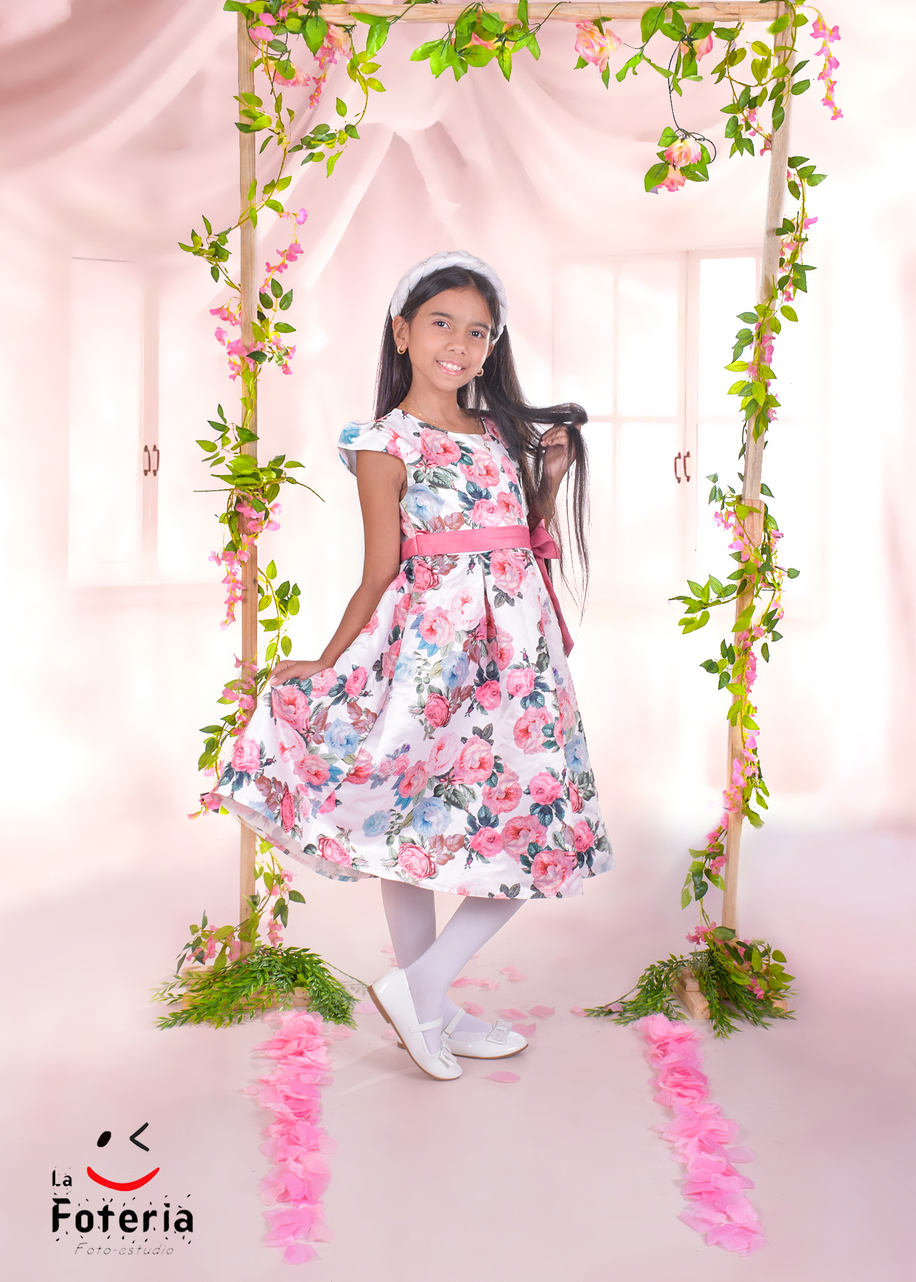
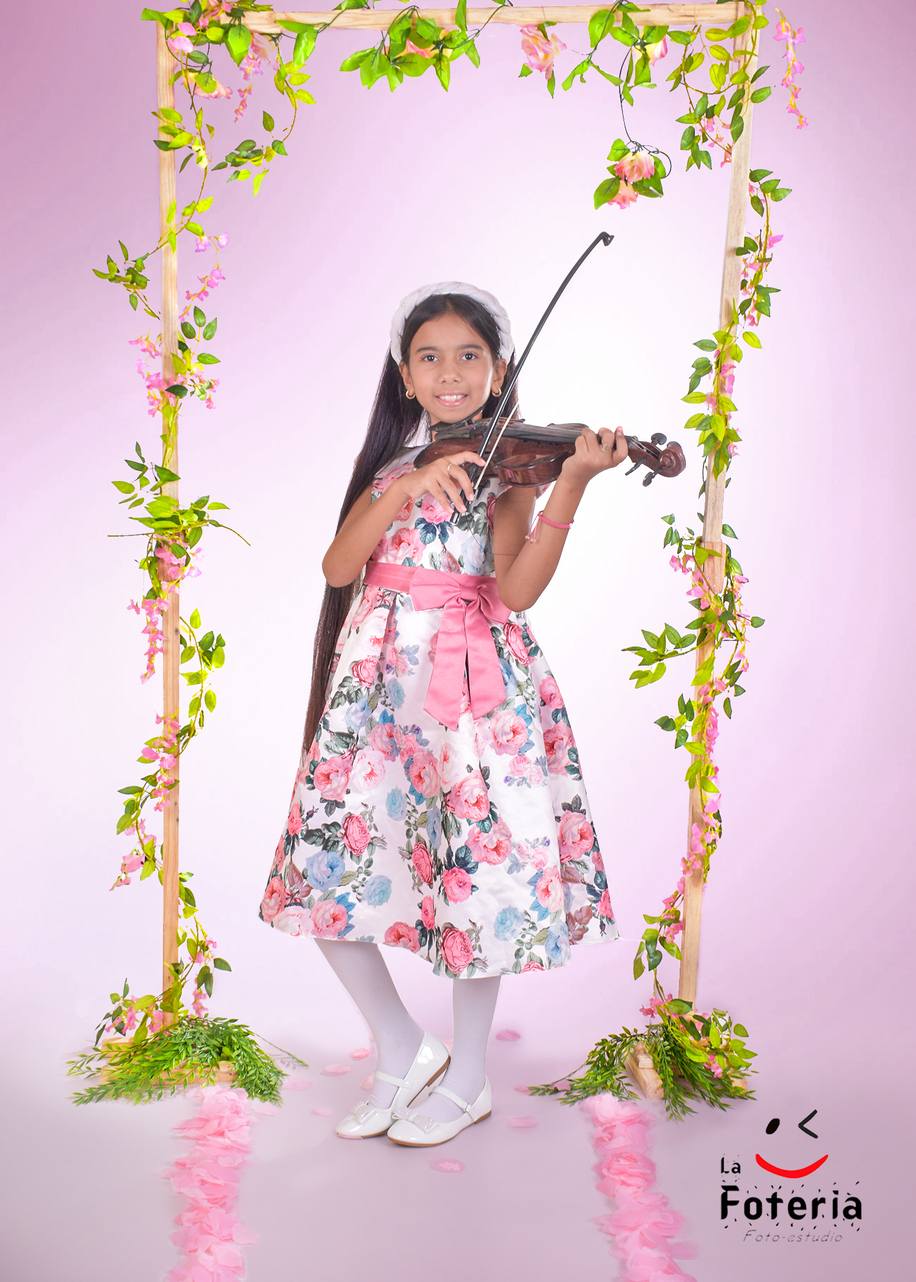
finalizando fotos

diff --git a/src/content/docs/catalogo/profesiones.md b/src/content/docs/catalogo/profesiones.md
@@ -1,0 +1,30 @@
+---
+title: 'Mi futura profesión'
+pubDate: 2024-Febrero
+description: 'Adolescentes'
+author: 'La Foteria'
+image:
+    url: 'https://docs.astro.build/assets/full-logo-light.png'
+    alt: 'El logotipo completo de Astro.'
+tags: ["astro", "bloguear", "aprender en público"]
+---
+
+
+
+#### ¿A que se dedicarán estos niños cuando crezcan? Descúbrelo en sus fotografías
+
+![profesiones][path]
+![profesiones][path2]
+![profesiones][path3]
+![profesiones][path4]
+![profesiones][path5]
+![profesiones][path6]
+![profesiones][path7]
+
+[path]: ../../../assets/profesiones/01.jpg
+[path2]: ../../../assets/profesiones/02.JPG
+[path3]: ../../../assets/profesiones/03.JPG
+[path4]: ../../../assets/profesiones/04.JPG
+[path5]: ../../../assets/profesiones/05.JPG
+[path6]: ../../../assets/profesiones/06.JPG
+[path7]: ../../../assets/profesiones/07.JPG

diff --git a/src/content/docs/catalogo/mascotas.md b/src/content/docs/catalogo/mascotas.md
@@ -1,0 +1,28 @@
+---
+title: 'Mis mascotas'
+pubDate: 2024-Febrero
+description: 'Mascotas'
+author: 'La Foteria'
+image:
+    url: 'https://docs.astro.build/assets/full-logo-light.png'
+    alt: 'El logotipo completo de Astro.'
+tags: ["astro", "bloguear", "aprender en público"]
+---
+
+
+
+#### Junto a mis mascotas favoritas
+
+![mascotas][path]
+![mascotas][path2]
+![mascotas][path3]
+![mascotas][path4]
+![mascotas][path5]
+![mascotas][path6]
+
+[path]: ../../../assets/mascotas/01.JPG
+[path2]: ../../../assets/mascotas/02.JPG
+[path3]: ../../../assets/mascotas/03.JPG
+[path4]: ../../../assets/mascotas/04.JPG
+[path5]: ../../../assets/mascotas/05.JPG
+[path6]: ../../../assets/mascotas/06.JPG

diff --git a/src/content/docs/catalogo/disney.md b/src/content/docs/catalogo/disney.md
@@ -14,5 +14,13 @@ tags: ["astro", "bloguear", "aprender en público"]
 #### Descubre la ilusión de ser una de las princesas del universo Disney
 
 ![disney][path]
+![disney][path2]
+![disney][path3]
+![disney][path4]
+![disney][path5]
 
 [path]: ../../../assets/princesas/01.JPG
+[path2]: ../../../assets/princesas/02.JPG
+[path3]: ../../../assets/princesas/03.JPG
+[path4]: ../../../assets/princesas/04.JPG
+[path5]: ../../../assets/princesas/05.JPG

diff --git a/src/content/docs/catalogo/months.md b/src/content/docs/catalogo/months.md
@@ -17,8 +17,12 @@ tags: ["astro", "bloguear", "aprender en público"]
 ![months][path2]
 ![months][path3]
 ![months][path4]
+![months][path5]
+![months][path6]
 
 [path]: ../../../assets/meses/01.JPG
 [path2]: ../../../assets/meses/02.JPG
 [path3]: ../../../assets/meses/03.JPG
 [path4]: ../../../assets/meses/04.JPG
+[path5]: ../../../assets/meses/05.JPG
+[path6]: ../../../assets/meses/06.JPG
